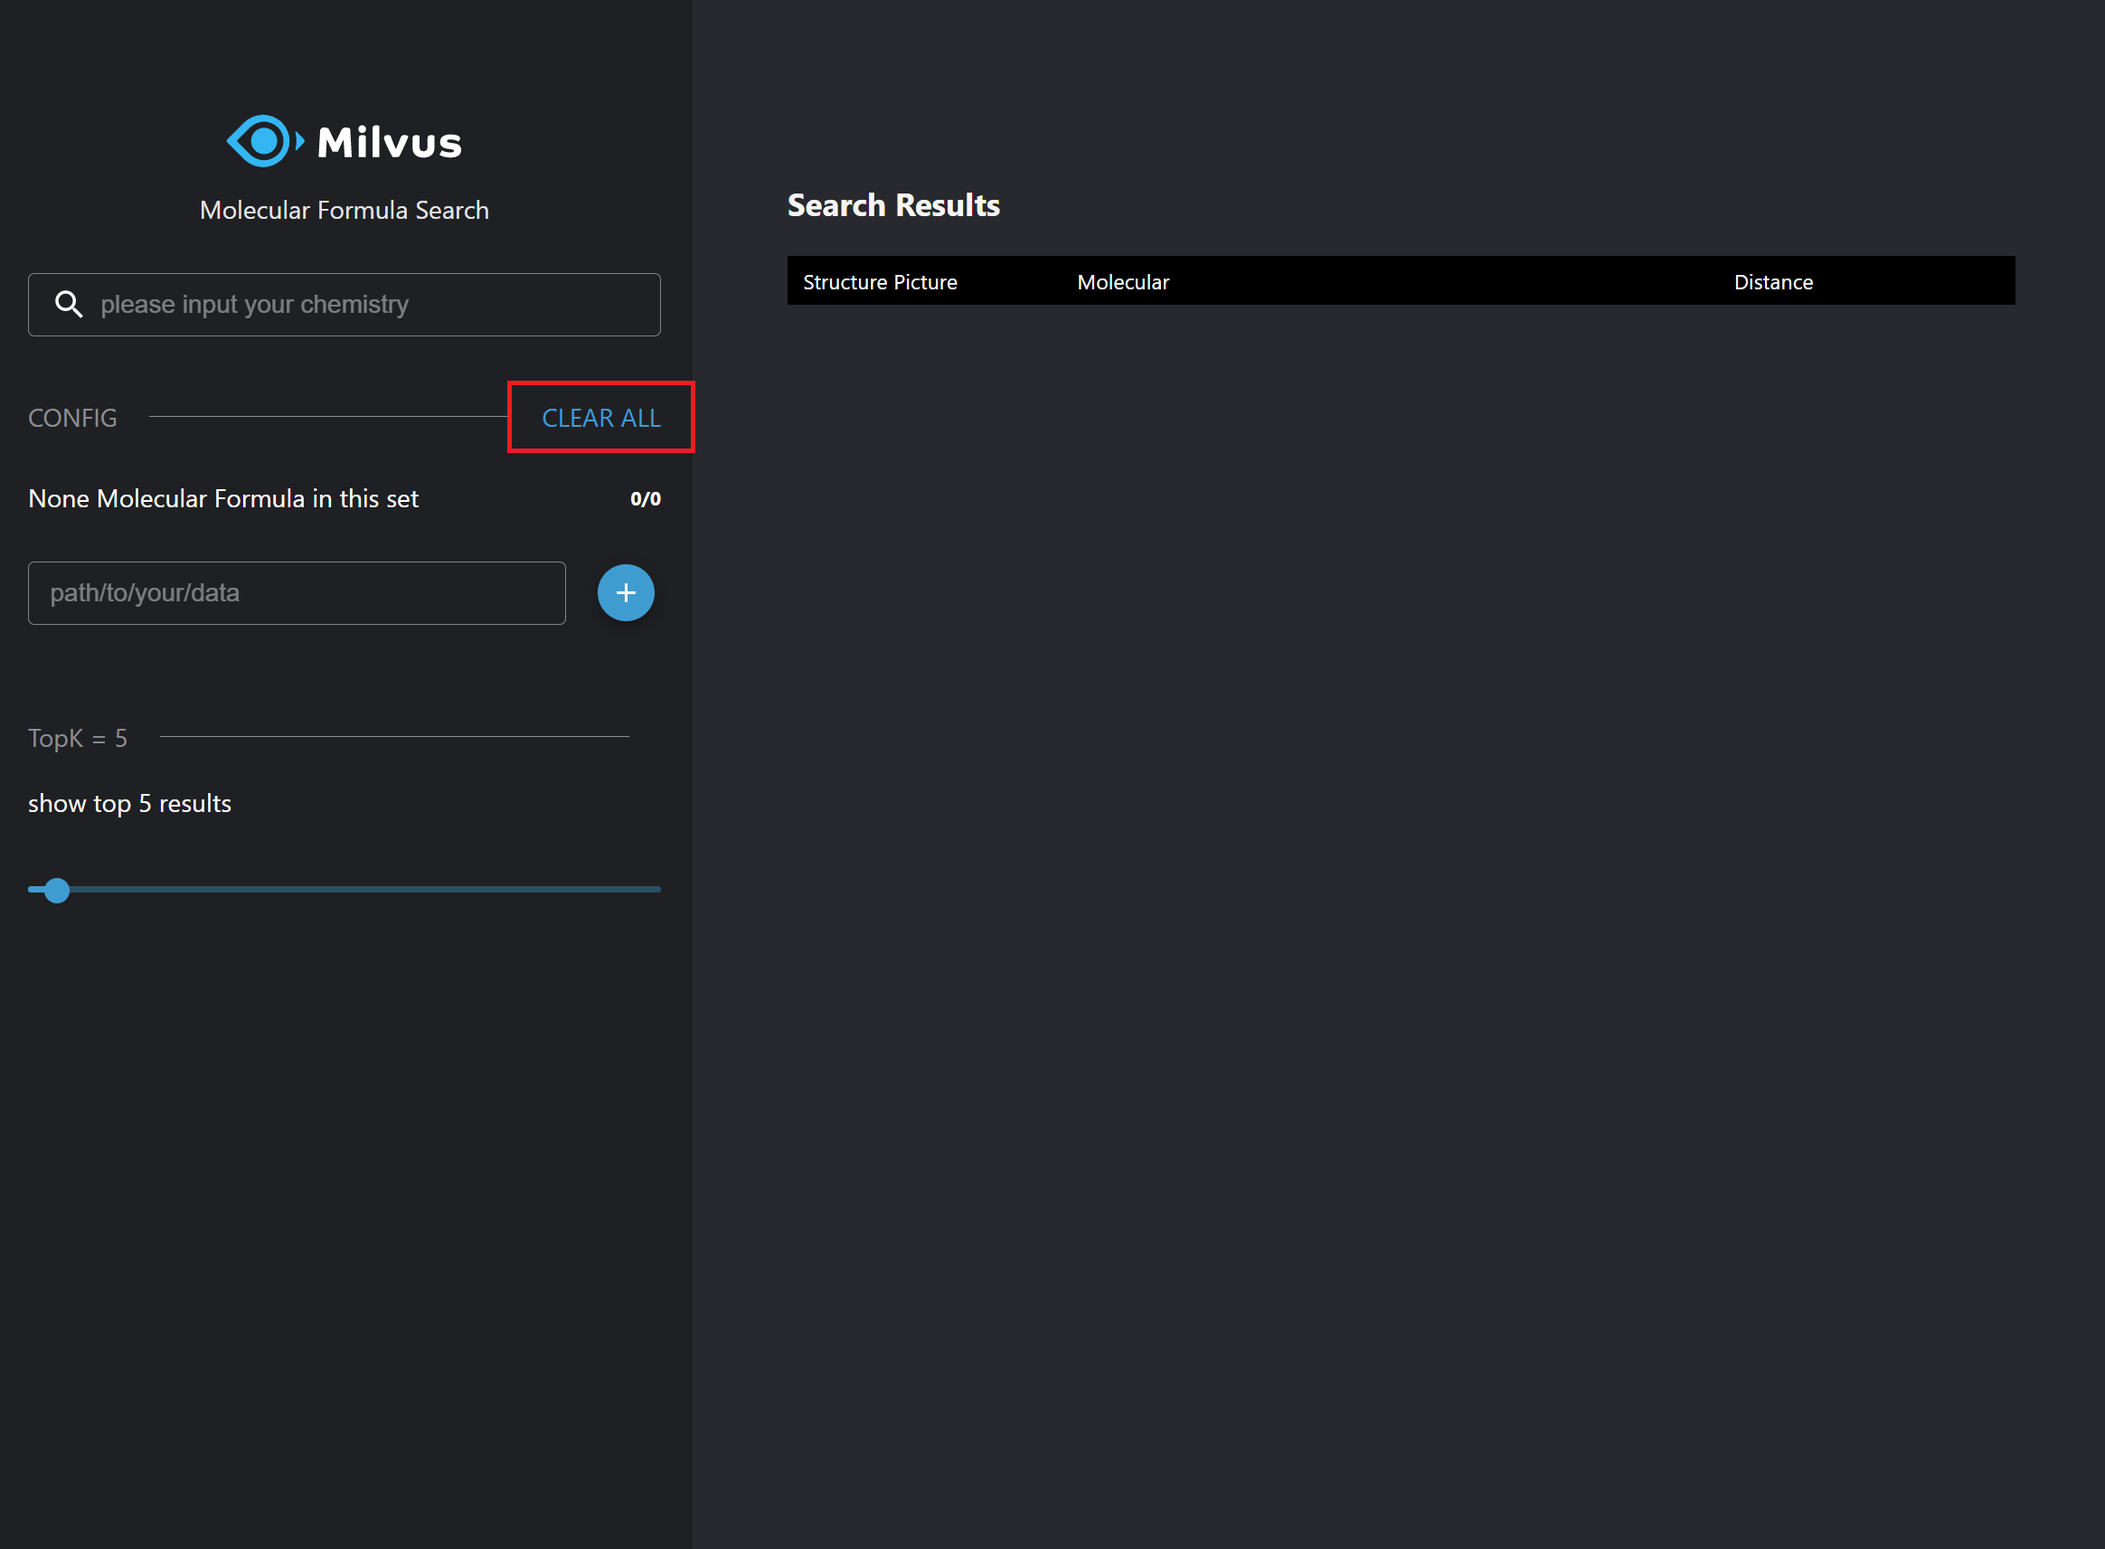
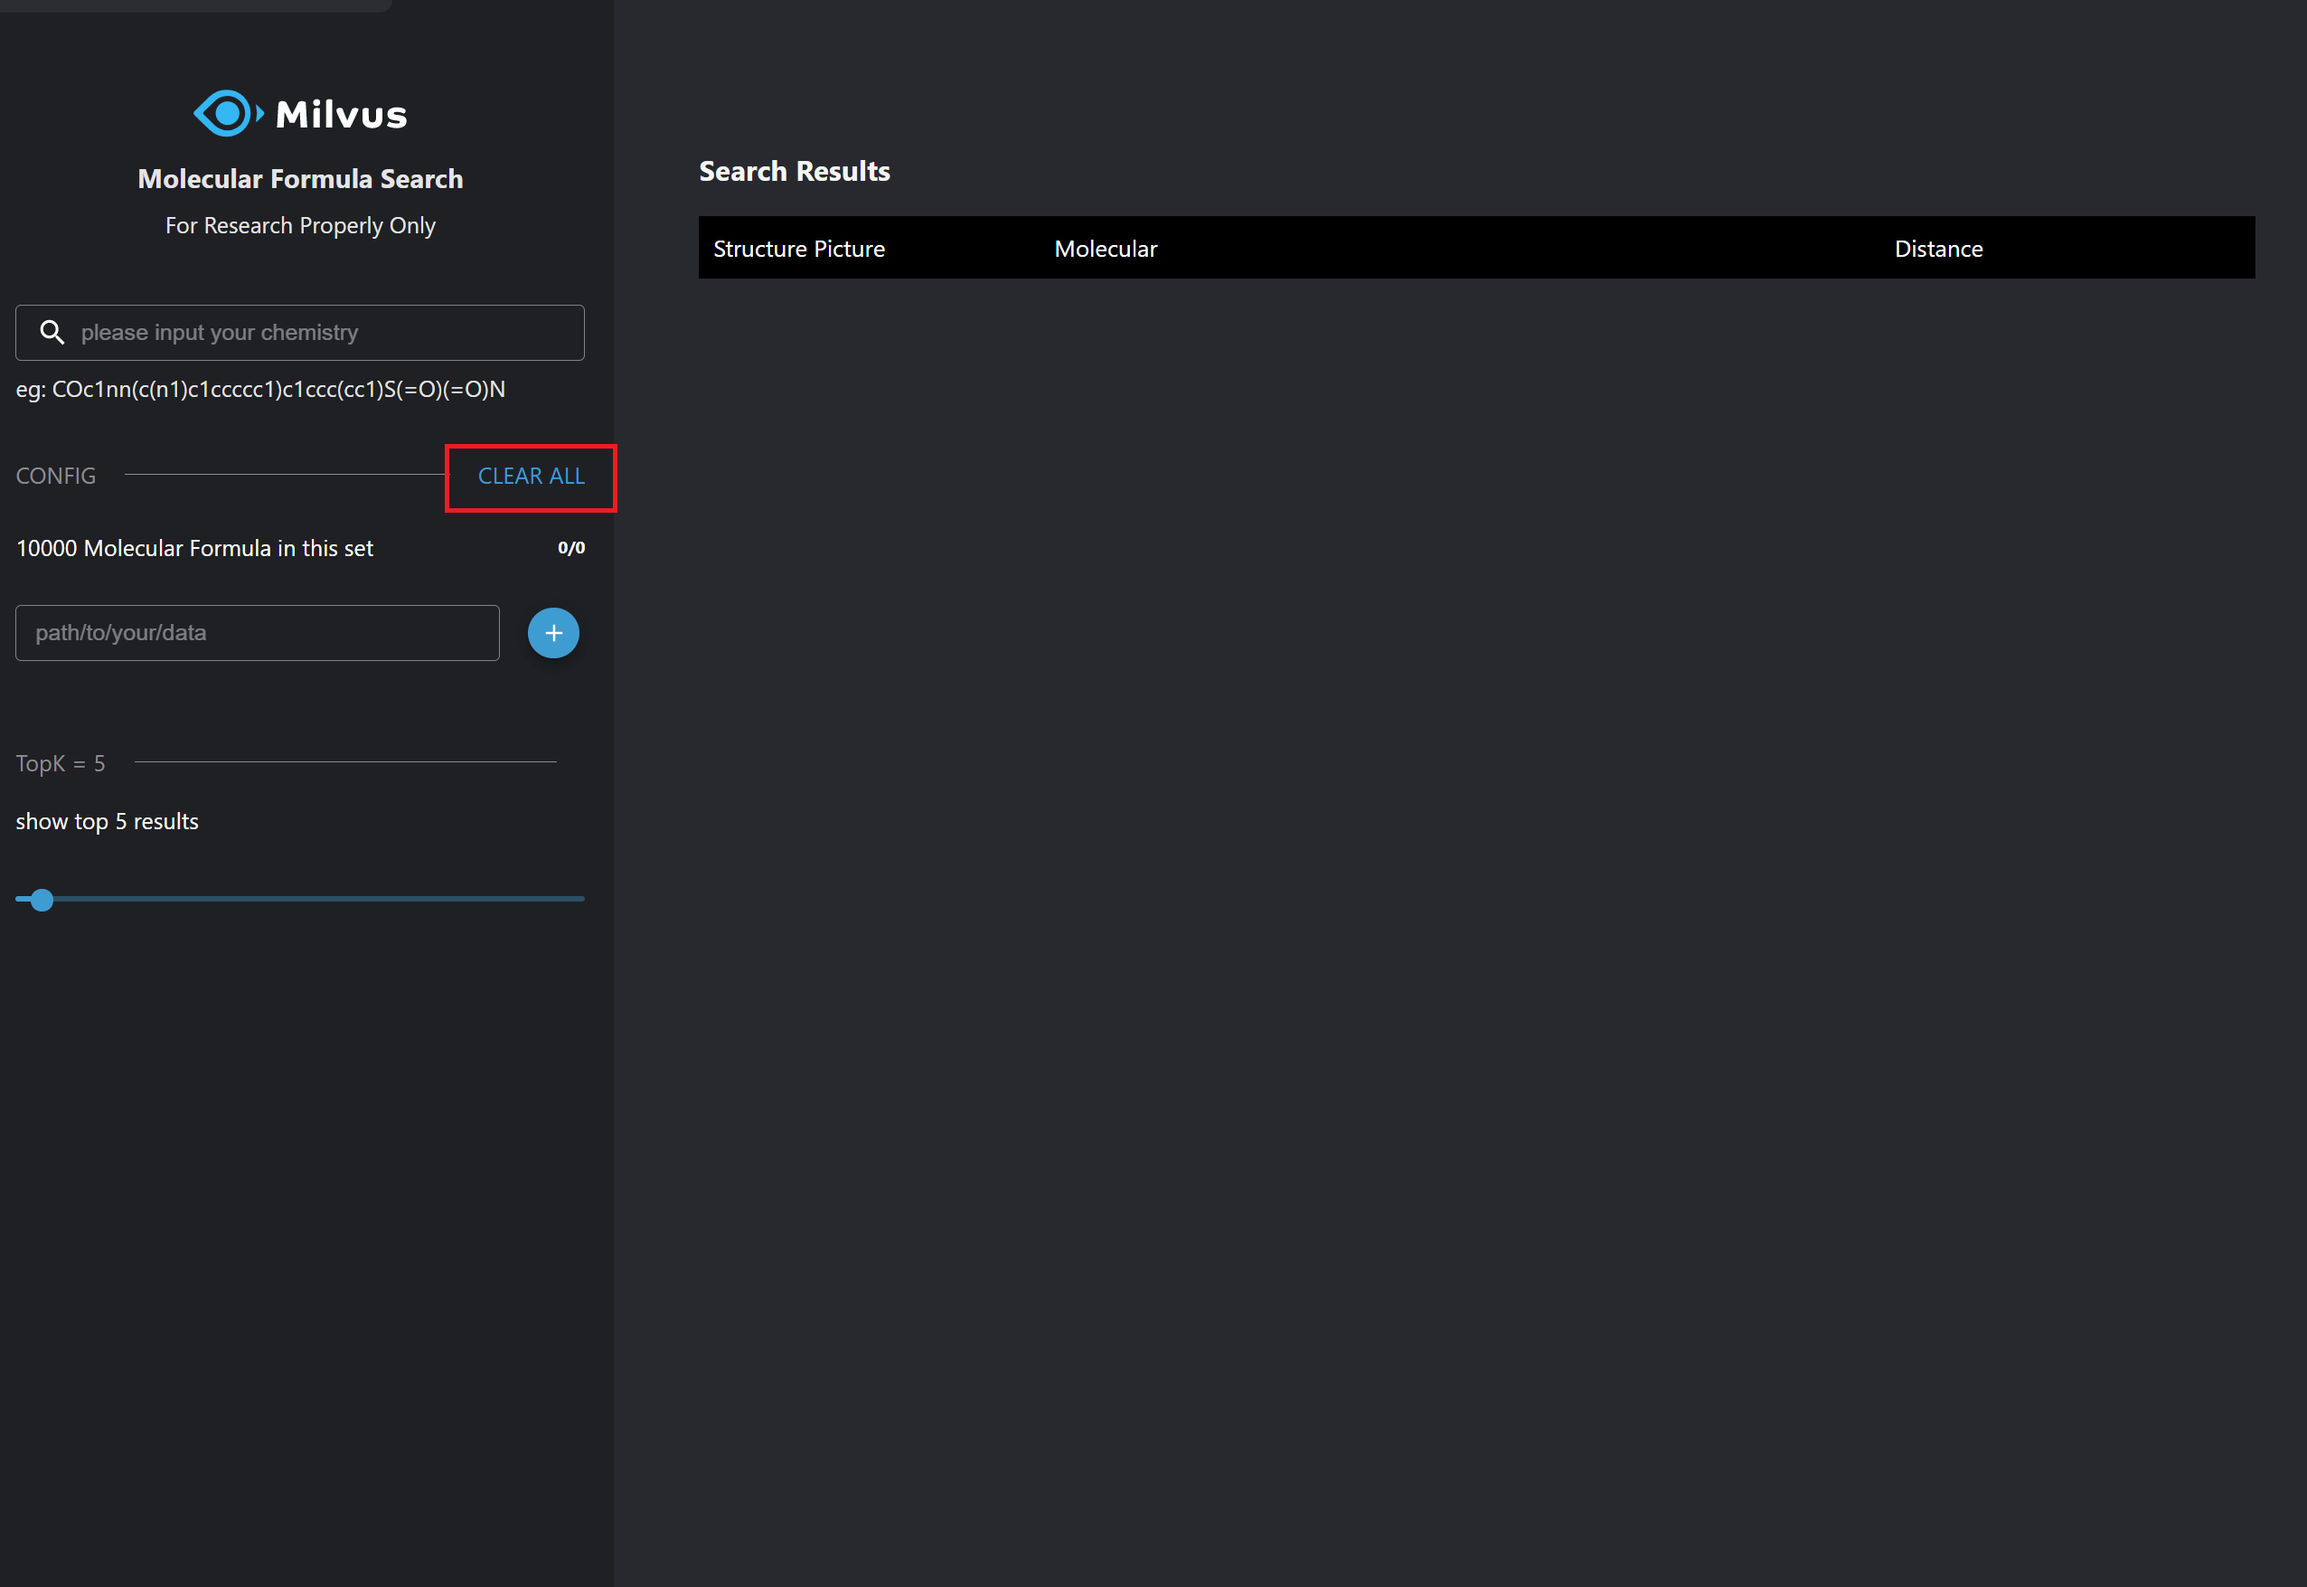
update
Former-commit-id: 53e6c9dce07966d45ea07ed4dc79c849a56fb011

diff --git a/solutions/mols_search/README.md b/solutions/mols_search/README.md
@@ -94,14 +94,14 @@ http://192.168.1.25:8001
 ![](./assert/load_data.PNG)
 
 - 化学式检索
-  1. 输入待检索的**化学式**并按**回车**，如：COclccc2c(c1)c(CC(=O)O)c(n2Cc1ccccc1)C
+  1. 输入待检索的**化学式**并按**回车**，如：Cc1ccc(cc1)S(=O)(=O)N
   2. 选择 TopK 值，将在右侧返回相似度最高的前 TopK 个化学式
 
 ![](./assert/search_data.PNG)
 
 - 清除化学式数据
 
-  点击`CLEAR ALL`按钮，清楚所有化学式数据
+  点击`CLEAR ALL`按钮，将清楚所有化学式数据
 
 ![](./assert/delete_data.PNG)
 
